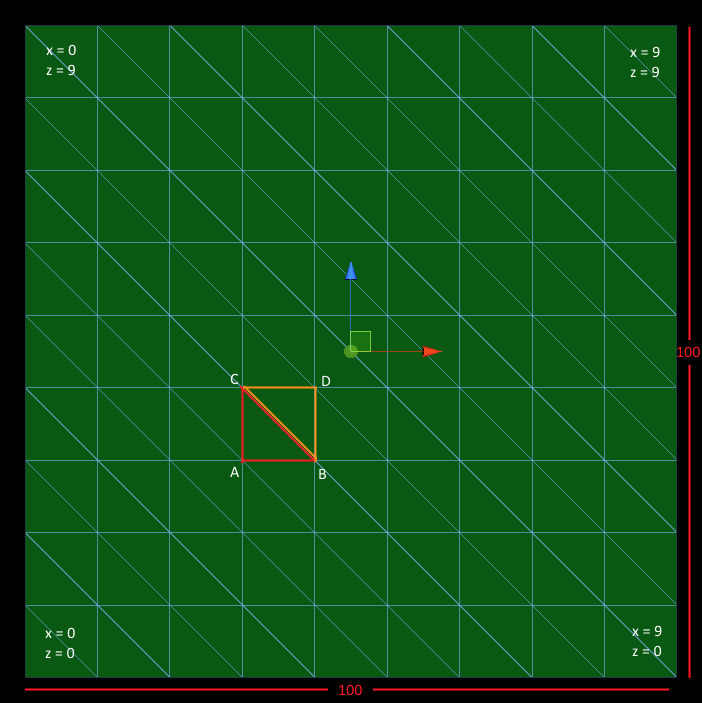
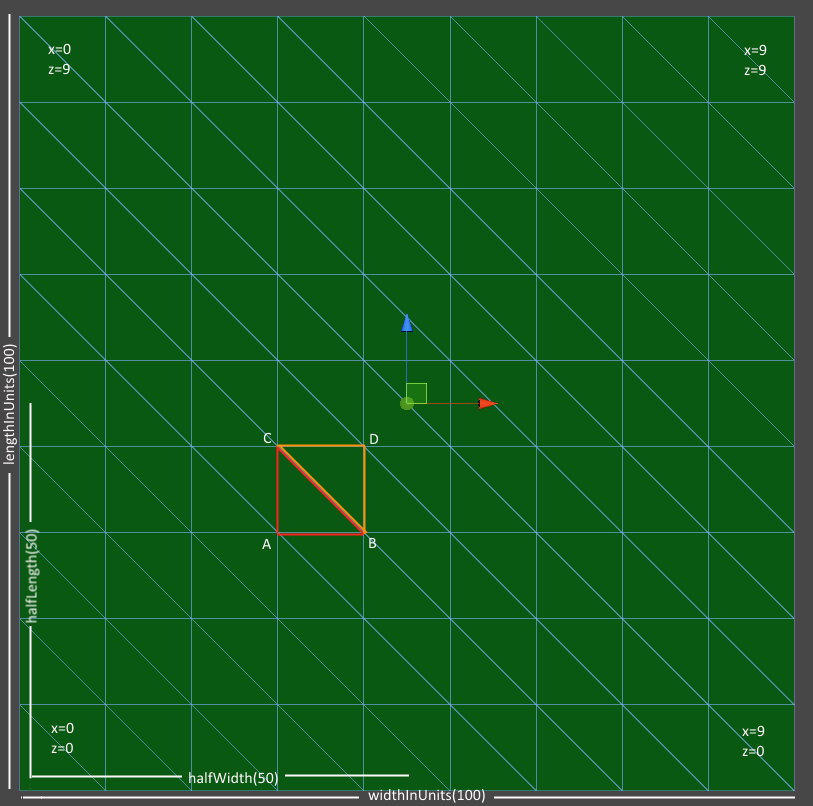
Finished TerrainGen post, temporarily removed other posts.

diff --git a/_sass/pygments.scss b/_sass/pygments.scss
@@ -3,10 +3,10 @@
    ========================================================================== */
 
 .highlight {
-	background-color: #efefef;
+	background-color: #1e1e1e;
 	font-family: $code-font;
 	@include font(12);
-	color: #333332;
+	color: #ffffff;
 	margin-bottom: 1.5em;
 	@include rounded(4px);
 	pre {
@@ -15,15 +15,15 @@
 		padding: 1em;
 	}
 	.lineno { padding-right: 24px; color: lighten(#333332,50);}
-	.hll { background-color: #ffffcc }
-	.c { color: #999988; font-style: italic } /* Comment */
+	.hll { background-color: #1e1e1e }
+	.c { color: #3a7a33; font-style: italic } /* Comment */
 	.err { color: #a61717; background-color: #e3d2d2 } /* Error */
-	.k { color: #000000; font-weight: bold } /* Keyword */
+	.k { color: #3987D6; font-weight: bold } /* Keyword */
 	.o { color: #000000; font-weight: bold } /* Operator */
-	.cm { color: #999988; font-style: italic } /* Comment.Multiline */
-	.cp { color: #999999; font-weight: bold; font-style: italic } /* Comment.Preproc */
-	.c1 { color: #999988; font-style: italic } /* Comment.Single */
-	.cs { color: #999999; font-weight: bold; font-style: italic } /* Comment.Special */
+	.cm { color: #3a7a33; font-style: italic } /* Comment.Multiline */
+	.cp { color: #3a7a33; font-weight: bold; font-style: italic } /* Comment.Preproc */
+	.c1 { color: #3a7a33; font-style: italic } /* Comment.Single */
+	.cs { color: #3a7a33; font-weight: bold; font-style: italic } /* Comment.Special */
 	.gd { color: #000000; background-color: #ffdddd } /* Generic.Deleted */
 	.ge { color: #000000; font-style: italic } /* Generic.Emph */
 	.gr { color: #aa0000 } /* Generic.Error */
@@ -34,43 +34,43 @@
 	.gs { font-weight: bold } /* Generic.Strong */
 	.gu { color: #aaaaaa } /* Generic.Subheading */
 	.gt { color: #aa0000 } /* Generic.Traceback */
-	.kc { color: #000000; font-weight: bold } /* Keyword.Constant */
-	.kd { color: #000000; font-weight: bold } /* Keyword.Declaration */
-	.kn { color: #000000; font-weight: bold } /* Keyword.Namespace */
-	.kp { color: #000000; font-weight: bold } /* Keyword.Pseudo */
-	.kr { color: #000000; font-weight: bold } /* Keyword.Reserved */
-	.kt { color: #445588; font-weight: bold } /* Keyword.Type */
-	.m { color: #009999 } /* Literal.Number */
-	.s { color: #d01040 } /* Literal.String */
+	.kc { color: #3987D6; font-weight: bold } /* Keyword.Constant */
+	.kd { color: #3987D6; font-weight: bold } /* Keyword.Declaration */
+	.kn { color: #3987D6; font-weight: bold } /* Keyword.Namespace */
+	.kp { color: #3987D6; font-weight: bold } /* Keyword.Pseudo */
+	.kr { color: #3987D6; font-weight: bold } /* Keyword.Reserved */
+	.kt { color: #3987D6; font-weight: bold } /* Keyword.Type */
+	.m { color: #B5CEA8 } /* Literal.Number */
+	.s { color: #D69D85 } /* Literal.String */
 	.na { color: #008080 } /* Name.Attribute */
 	.nb { color: #0086B3 } /* Name.Builtin */
-	.nc { color: #445588; font-weight: bold } /* Name.Class */
+	.nc { color: #4EC9B0; font-weight: bold } /* Name.Class */
 	.no { color: #008080 } /* Name.Constant */
 	.nd { color: #3c5d5d; font-weight: bold } /* Name.Decorator */
 	.ni { color: #800080 } /* Name.Entity */
 	.ne { color: #990000; font-weight: bold } /* Name.Exception */
-	.nf { color: #990000; font-weight: bold } /* Name.Function */
+	.nf { color: #ffffff; font-weight: bold } /* Name.Function */
 	.nl { color: #990000; font-weight: bold } /* Name.Label */
 	.nn { color: #555555 } /* Name.Namespace */
 	.nt { color: #000080 } /* Name.Tag */
 	.nv { color: #008080 } /* Name.Variable */
 	.ow { color: #000000; font-weight: bold } /* Operator.Word */
 	.w { color: #bbbbbb } /* Text.Whitespace */
-	.mf { color: #009999 } /* Literal.Number.Float */
-	.mh { color: #009999 } /* Literal.Number.Hex */
-	.mi { color: #009999 } /* Literal.Number.Integer */
-	.mo { color: #009999 } /* Literal.Number.Oct */
-	.sb { color: #d01040 } /* Literal.String.Backtick */
-	.sc { color: #d01040 } /* Literal.String.Char */
-	.sd { color: #d01040 } /* Literal.String.Doc */
-	.s2 { color: #d01040 } /* Literal.String.Double */
-	.se { color: #d01040 } /* Literal.String.Escape */
-	.sh { color: #d01040 } /* Literal.String.Heredoc */
-	.si { color: #d01040 } /* Literal.String.Interpol */
-	.sx { color: #d01040 } /* Literal.String.Other */
-	.sr { color: #009926 } /* Literal.String.Regex */
-	.s1 { color: #d01040 } /* Literal.String.Single */
-	.ss { color: #990073 } /* Literal.String.Symbol */
+	.mf { color: #B5CEA8 } /* Literal.Number.Float */
+	.mh { color: #B5CEA8 } /* Literal.Number.Hex */
+	.mi { color: #B5CEA8 } /* Literal.Number.Integer */
+	.mo { color: #B5CEA8 } /* Literal.Number.Oct */
+	.sb { color: #D69D85 } /* Literal.String.Backtick */
+	.sc { color: #D69D85 } /* Literal.String.Char */
+	.sd { color: #D69D85 } /* Literal.String.Doc */
+	.s2 { color: #D69D85 } /* Literal.String.Double */
+	.se { color: #D69D85 } /* Literal.String.Escape */
+	.sh { color: #D69D85 } /* Literal.String.Heredoc */
+	.si { color: #D69D85 } /* Literal.String.Interpol */
+	.sx { color: #D69D85 } /* Literal.String.Other */
+	.sr { color: #D69D85 } /* Literal.String.Regex */
+	.s1 { color: #D69D85 } /* Literal.String.Single */
+	.ss { color: #D69D85 } /* Literal.String.Symbol */
 	.bp { color: #999999 } /* Name.Builtin.Pseudo */
 	.vc { color: #008080 } /* Name.Variable.Class */
 	.vg { color: #008080 } /* Name.Variable.Global */

diff --git a/_sass/variables.scss b/_sass/variables.scss
@@ -11,7 +11,7 @@ $doc-line-height: 26;
 $paragraph-indent: false;
 $base-font: 'PT Serif', serif;
 $heading-font: 'PT Sans Narrow', sans-serif;
-$code-font: Monaco, "Courier New", "DejaVu Sans Mono", "Bitstream Vera Sans Mono", monospace;
+$code-font: Consolas, "Courier New", "DejaVu Sans Mono", "Bitstream Vera Sans Mono", monospace;
 $alt-font: $base-font;
 
 /* 

diff --git a/_posts/2015-02-09-terrain-generation-in-fox-ears.md b/_posts/2015-02-09-terrain-generation-in-fox-ears.md
@@ -6,14 +6,13 @@ categories:
 excerpt: "How we generate low-poly terrain for Fox Ears in Unity."
 tags: [ggj15, fox, ears, terrain, low poly]
 image:
-  feature:
+  feature: foxears/terrain-gen/banner.png
 date: 2015-02-09T21:08:27-05:00
 ---
 
-Moving forward with Fox Ears, we knew we wanted more robust terrain than the static models made by our artist for the game jam. 
+Fox Ears was made as part of the 2015 Global Game Jam. You can see a video of the game in action <a href="https://www.youtube.com/watch?v=97rNvLYpQCQ">here</a>, and you can download it on our <a href="http://angrysquidgames.itch.io/fox-ears">itch.io page</a>.
 
-### Considering Our Options
-The three most obvious options were to continue to use hand made models, to use Unity's built in terrain tools/modify Unity's plane, or to generate our own meshes and use those.
+Moving forward with Fox Ears, we knew we wanted more robust terrain than the static models made for the game jam. The three most obvious options were to continue to use hand made models, to use Unity's built in terrain tools/modify Unity's plane, or to generate our own meshes and use those.
 
 While the hand made models worked really well for the jam, they left a lot to be desired. It really restricted tile design and sometimes led to seams between segments, and meant that we didn't have a whole lot of control over the layout of terrain. A generated option seemed much more desirable.
 
@@ -88,20 +87,15 @@ public virtual void GenerateMesh() {
 }
 {% endhighlight %}
 
-**GenerateUniqueID** Generates a unique identifier that acts as the name for the mesh asset we create.<br>
-Next we create a new Mesh object and set it as the active Mesh for the object's MeshFilter. <br>
-**GenerateVertices, GenerateNormals, GenerateUVs, & GenerateTriangles** all generate the data for the Mesh, we'll cover them in more detail below.
-**GenerateOffsets** generates the random noise we add to our terrain. 
-{: .notice}
+We create a new Mesh object and set it as the active Mesh for the object's MeshFilter, then fill it with the data we need. **GenerateVertices, GenerateUVs, GenerateTriangles, GenerateOffsets, & GenerateNormals** all generate the data for the Mesh, we'll cover them in more detail below. There are some dependencies in the order this data is calculated: the UVs, offsets, and normals all require that the vertices have already been calculated; the offsets also require that the UVs have already been calculated; and the normals should be calculated after the offsets so the offsets are taken into account for lighting. The triangles could be calculated at any point.
 
-### Generating The Vertices
-Before we dive into the code, let's take a second to understand what it is we're trying to do. Consider the image below of a plane generated with our terrain tools, with a **widthInUnits & lengthInUnits** of 100, and a **widthInVerts & lengthInVerts** of 10:
+Before we dive into the code, here's an image of a plane generated with these terrain tools, labelled with some of the variables used to help illustrate what they represent.
 
 <figure>
 	<a href="../images/foxears/terrain-gen/plane-verts.png"><img src="../images/foxears/terrain-gen/plane-verts.png"></a>
 </figure>
 
-And now the code to generate the vertices:
+### Generating The Vertices
 
 {% highlight c# %}
 protected virtual Vector3[] GenerateVertices() {
@@ -128,7 +122,7 @@ protected virtual Vector3[] GenerateVertices() {
 	return vertices;
 }
 {% endhighlight %}
-The first thing we need to do is figure out how many vertices we'll have. Because we want hard edges, and Unity uses per-vertex normals, we can't have faces sharing vertices, and we have to duplicate the vertex data for each face. The number of quads in the plane can be found by multiplying **widthInVerts-1** by **lengthInVerts-1**. We then multiply by **2** to get the number of triangles, and multiply that by **3** to get the number of vertices we'll have. We use this number to allocate the array of vertices that will get passed to our Mesh.
+The first thing we need to do is figure out how many vertices we'll have. Because we want hard edges, and Unity uses per-vertex normals, we can't have faces sharing vertices, so we have to duplicate the vertex data for each face. The number of quads in the plane can be found by multiplying **widthInVerts-1** by **lengthInVerts-1**. We then multiply by **2** to get the number of triangles, and multiply that by **3** to get the number of vertices we'll have. We use this number to allocate the array of vertices that will get passed to our Mesh.
 
 Next we calculate some values:
 
@@ -140,9 +134,9 @@ Finally, we fill the array with the data for each vertex. We do this per quad, s
 
 In the image above, you can see our basic contruction plan on the highlighted quad around the middle. We build each quad by constructing two triangles; first the red (using verts A-C-B), then the orange (using verts B-C-D) (these orders are used because we're using clockwise winding; they would have to be adjusted for a counter-clockwise rendering setup).  We store the vertices for each tri consecutively in the vertex array. 
 
-For the first triangle of each quad, we calculate all of the values for each vertex. Our iterators represent the values of the vertex at point A for each quad, which means point B = A + (1,0), C = A + (0,1), and D = A + (1,1). 
+For the first triangle of each quad, we calculate all of the values for each vertex. Our iterators (**x & z**) represent the values of the vertex at point **A** for each quad, which means point **B = A + (1,0)**, **C = A + (0,1)**, and **D = A + (1,1)**. 
 
-For the second triangle, we can re-use the values we calculated for points B and C, then we have to calculate point D. Once that's done for each quad, we have our array of vertices completed!
+For the second triangle, we can re-use the values we calculated for points **B** and **C**, then we have to calculate point **D**. Once that's done for each quad, we have our array of vertices completed!
 
 ### Generating The UVs
 UV generation is very straightforward; the UV for each vertex is simply the percentage of the way it is along each axis. The only sort of tricky part is we have to account for the offset we used to center the mesh around the origin:
@@ -151,14 +145,15 @@ UV generation is very straightforward; the UV for each vertex is simply the perc
 protected virtual Vector2[] GenerateUVs() {
 	Vector2[] uvs = new Vector2[mesh.vertices.Length];
 	float halfWidth = widthInUnits / 2.0f;
+	float halfLength = lengthInUnits / 2.0f;
 	for (int i = 0; i < uvs.Length; i++) {
-		uvs[i] = new Vector2((mesh.vertices[i].x + halfWidth) / widthInUnits, (mesh.vertices[i].z + (lengthInUnits / 2.0f)) / lengthInUnits);
+		uvs[i] = new Vector2((mesh.vertices[i].x + halfWidth) / widthInUnits, (mesh.vertices[i].z + halfLength) / lengthInUnits);
 	}
 	return uvs;
 }
 {% endhighlight %}
 
-We simply iterate through each vertex, add half the width and length of the plane to its x and z values, and divide those by the total width and length to figure out its UV values.
+We simply iterate through each vertex, add half the width and length of the plane to its **x** and **z** values, and divide those by the total width and length to figure out its UV values.
 
 ### Generating The Triangles
 Once again, this is a very straightforward step. The triangle array is a set of integers that serve as indices into the vertex array. Because of the way we set up our arrays of information, our triangle array is a simple linearly increasing function:
@@ -227,6 +222,90 @@ protected virtual Vector3[] GenerateNormals() {
 }
 {% endhighlight %}
 
-We calculate the normals per triangle to preserve our hard edges and shading, and store them per vertex. To calculate the normal for each triangle, we compute the cross product C-A x B-A and for the other tri, C-B x D-B. Following the right-hand-rule, it should be that our vectors are the other way around, however for some reason this gives incorrect results in Unity.
+We calculate the normals per triangle to preserve our hard edges, and store them per vertex. To calculate the normal for each triangle, we compute the cross product C-A x B-A and for the other tri, C-B x D-B. Following the right-hand-rule, it should be that our vectors are the other way around, however for some reason this gives incorrect results in Unity.
 
 Once we have the normal for the triangle, we store it for each vertex, and continue on to the next one.
+
+### Putting It All Together
+Now that our base class is done, let's take a look at a very simple derived class that is looking to create a basic plane:
+
+{% highlight c# %}
+public class LowPolyPlane : LowPolyTerrain {
+	
+	public override void GenerateMesh() {
+		base.GenerateMesh();
+
+		mesh.name = "Low Poly Plane Mesh";
+	}
+
+	void Start() {
+		
+	}
+
+	void Update() {
+
+	}
+}
+{% endhighlight %}
+
+...and that's it! If we wanted to generate the mesh each time the game is run, we would just call **GenerateMesh** from **Start** or **OnEnable** and be done. However, we wanted more control over the shape of our tiles, and wanted to store interesting terrains we generated. To do this, we use the Editor script below:
+
+{% highlight c# %}
+[CustomEditor(typeof(LowPolyPlane))]
+public class LowPolyPlaneEditor : Editor {
+
+	Material mat, newMat;
+
+	public override void OnInspectorGUI() {
+		LowPolyPlane plane = target as LowPolyPlane;
+		if (mat == null) {
+			mat = plane.GetComponent<Renderer>().sharedMaterial;
+			newMat = mat;
+		}
+
+		GUILayout.Label("Plane Settings", EditorStyles.boldLabel);
+
+		plane.widthInUnits = EditorGUILayout.FloatField("Width (units):", plane.widthInUnits);
+		plane.lengthInUnits = EditorGUILayout.FloatField("Length (units):", plane.lengthInUnits);
+		plane.height = EditorGUILayout.FloatField("Height (units):", plane.height);
+		plane.widthInVerts = EditorGUILayout.IntField("Width (verts):", plane.widthInVerts);
+		plane.lengthInVerts = EditorGUILayout.IntField("Length (verts):", plane.lengthInVerts);
+		newMat = EditorGUILayout.ObjectField("Material:", newMat, typeof(Material), false) as Material;
+		if (newMat != mat) {
+			plane.GetComponent<Renderer>().material = newMat;
+			mat = newMat;
+		}
+		plane.minOffset = EditorGUILayout.Vector3Field("Minimum Random Offset:", plane.minOffset);
+		plane.maxOffset = EditorGUILayout.Vector3Field("Maximum Random Offset:", plane.maxOffset);
+
+		if (plane.widthInUnits <= 0) plane.widthInUnits = 1;
+		if (plane.lengthInUnits <= 0) plane.lengthInUnits = 1;
+		if (plane.widthInVerts <= 0) plane.widthInVerts = 1;
+		if (plane.lengthInVerts <= 0) plane.lengthInVerts = 1;
+
+		if (GUILayout.Button("Create Plane")) {
+			plane.GenerateMesh();
+
+			if (plane.gameObject.GetComponent<MeshCollider>() != null) {
+				Object.DestroyImmediate(plane.gameObject.GetComponent<MeshCollider>());
+			}
+			plane.gameObject.AddComponent<MeshCollider>();
+
+			AssetDatabase.CreateAsset(plane.mesh, "Assets/_FoxEars/Models/Tile Components/Generated Terrain/" + plane.uniqueID + ".mesh");
+			AssetDatabase.SaveAssets();
+		}
+	}
+
+	public void OnDisable() {
+		mat = newMat = null;
+	}
+
+
+}
+{% endhighlight %}
+
+First, we get the target object and cast it as our LowPolyPlane, and we initialize our temporary materials to whatever the current object has set. Next, we collect the various information for the settings for the plane, and apply a little data validation to it so the results are sane/don't cause errors. Finally, we add a button that generates the mesh, and updates the Asset Database so Unity will recognize it. Note that the directory specified in the call to **AssetDatabase.CreateAsset** needs to exist beforehand, or it will throw an error. Also, if we fail to set **mat** and **newMat** to null in **OnDisable**, our object will leak materials into the scene.
+
+Now when we select a LowPolyPlane in our scene, its inspector will show a "Create Plane" button which we can click to generate a new mesh with the most recent settings we've set.
+
+In an upcoming blog post, we'll cover some of the more interesting terrain types we've created, to show what can be built on this base. If you have any questions/comments/cool things you've made with this, hit me up <a href="http://www.twitter.com/craigrthomas">@CraigRThomas</a> or send an email to craig.thomas36(at)gmail.com.
